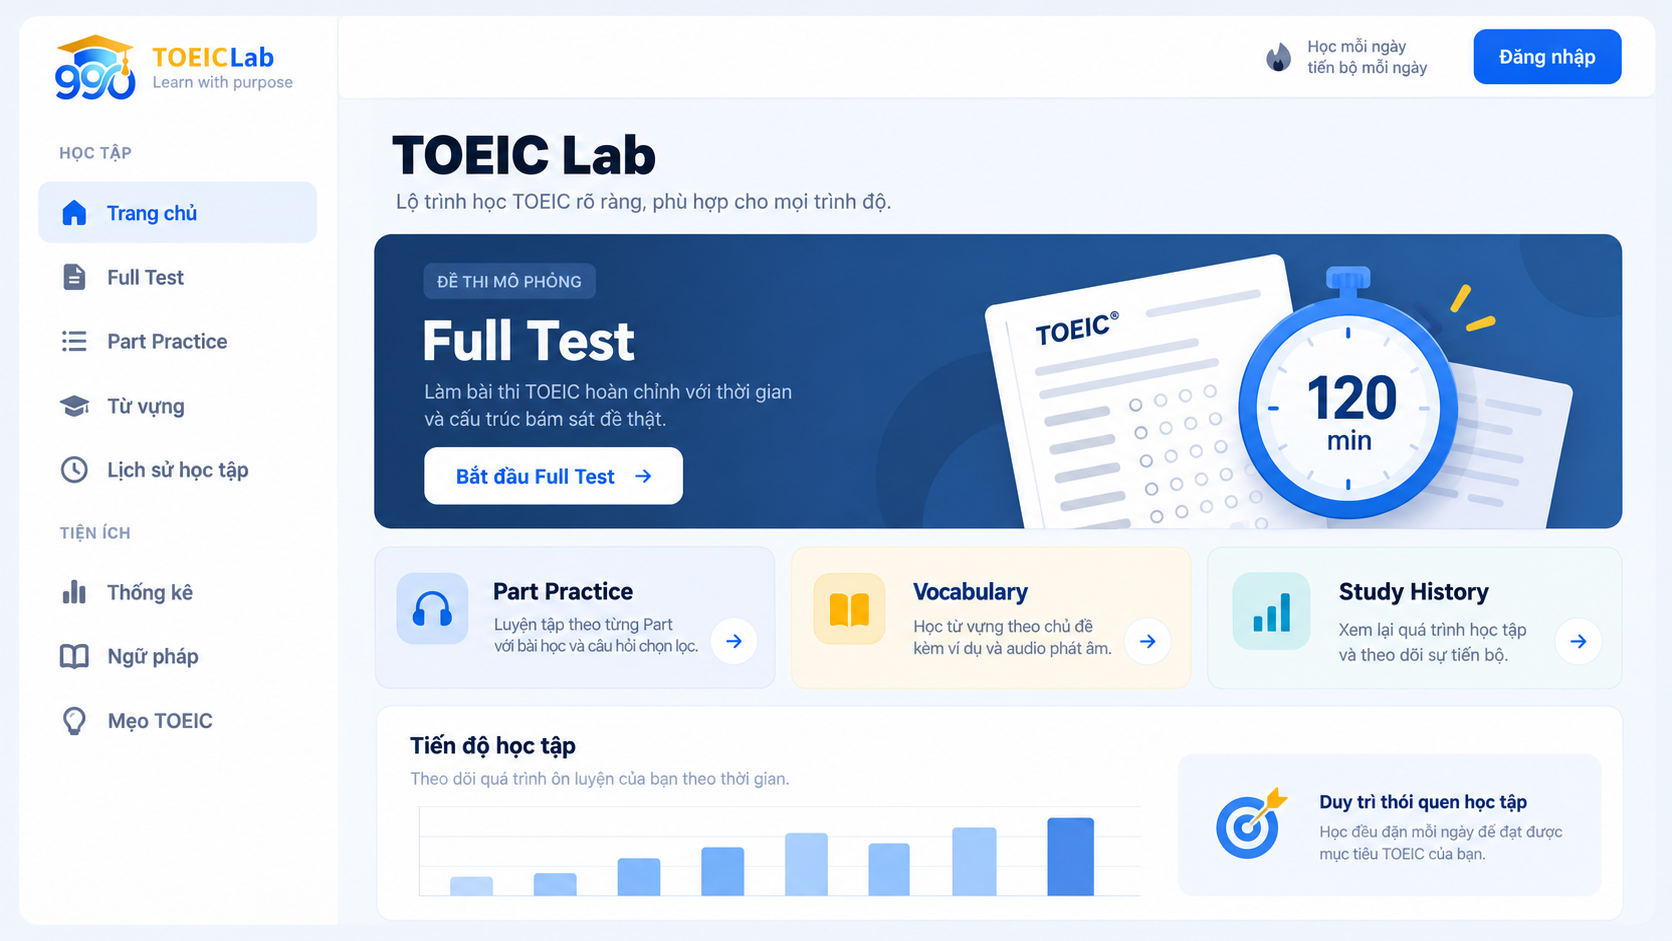
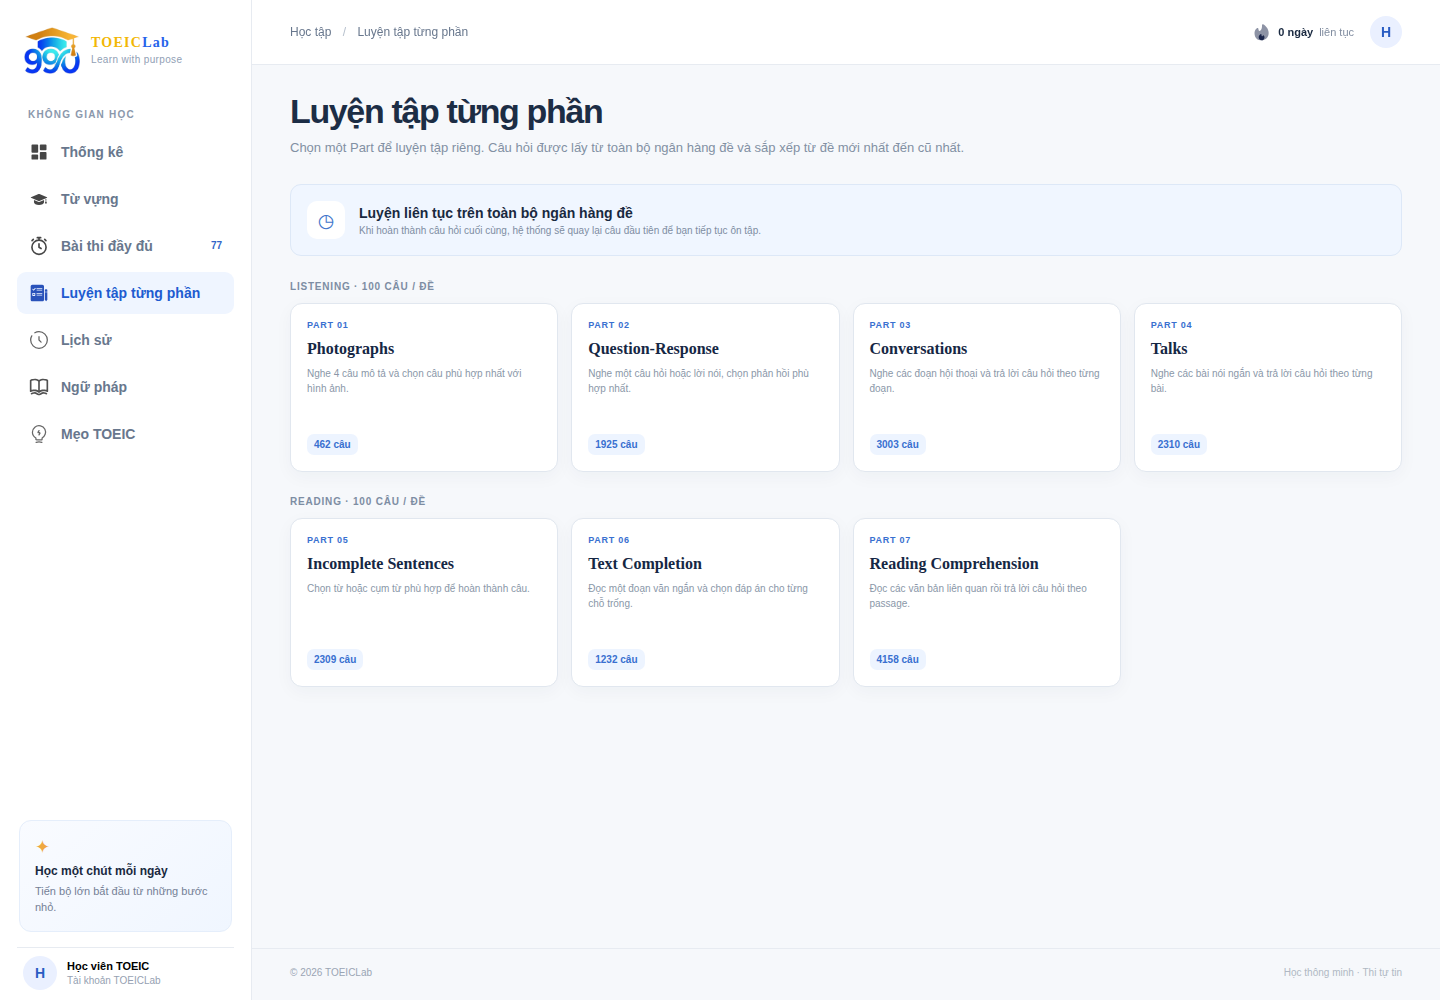
Update TOEIC Lab portfolio details and link

diff --git a/index.html b/index.html
@@ -93,21 +93,23 @@
           <div class="project-grid">
             <article class="project-card project-card-featured">
               <div class="project-visual">
-                <img src="assets/images/toeic-lab-preview.png" width="1672" height="941" loading="lazy" alt="Illustrative TOEIC Lab learning dashboard concept with a timed test, practice, vocabulary, and study history panels">
-                <span class="visual-note">Illustrative interface</span>
+                <img src="assets/images/toeic-lab-preview.png" width="1440" height="1000" loading="lazy" alt="TOEIC Lab Part Practice page listing all seven TOEIC parts for untimed practice">
               </div>
               <div class="project-body">
                 <div class="project-overline"><span>01 / Education</span><span>Full-stack product</span></div>
                 <div class="project-title-row">
                   <h3>TOEIC Lab</h3>
-                  <a class="icon-link" href="https://github.com/trandiepp2105/toeiclab" target="_blank" rel="noreferrer" aria-label="View TOEIC Lab source on GitHub"><span aria-hidden="true">↗</span></a>
+                  <div class="project-title-actions">
+                    <a class="project-app-link" href="https://toeiclab.io.vn" target="_blank" rel="noreferrer">Open app <span aria-hidden="true">↗</span></a>
+                    <a class="icon-link" href="https://github.com/trandiepp2105/toeiclab" target="_blank" rel="noreferrer" aria-label="View TOEIC Lab source on GitHub"><span aria-hidden="true">↗</span></a>
+                  </div>
                 </div>
-                <p class="project-summary">A modular TOEIC learning platform for full-length exams, focused practice, vocabulary study, and progress review.</p>
+                <p class="project-summary">An online TOEIC study app for topic-based vocabulary, practice across all seven parts, full-length mock exams, and progress review.</p>
                 <p class="project-contribution"><strong>Contribution</strong> Built a modular TOEIC learning platform as a monolith with React/SCSS, Django REST Framework, MySQL, Redis, and Nginx.</p>
                 <ul class="project-highlights">
-                  <li>120-minute full tests with review flows</li>
-                  <li>Part practice and bilingual vocabulary quizzes</li>
-                  <li>Learning history and progress tracking</li>
+                  <li>600 topic-based words with IPA, examples, and pronunciation audio</li>
+                  <li>Untimed practice, bilingual vocabulary quizzes, and 120-minute mock exams</li>
+                  <li>Answer review, per-Part scores, study history, and progress statistics</li>
                 </ul>
                 <div class="tag-list" aria-label="Technologies used">
                   <span>React</span><span>SCSS</span><span>Django REST</span><span>MySQL</span><span>Redis</span><span>Nginx</span>
@@ -117,7 +119,7 @@
 
             <article class="project-card">
               <div class="project-visual">
-                <img src="assets/images/viberchill-preview.png" width="1567" height="702" loading="lazy" alt="ViberFilm streaming interface showing a movie detail page and HLS playback controls">
+                <img src="assets/images/viberchill-preview.png" width="1567" height="702" loading="lazy" alt="Movie detail page in the ViberChill streaming app, shown with its ViberFilm branding and HLS playback controls">
               </div>
               <div class="project-body">
                 <div class="project-overline"><span>02 / Streaming</span><span>2026</span></div>

diff --git a/assets/css/styles.css b/assets/css/styles.css
@@ -486,6 +486,10 @@ a.intro-detail:hover {
   aspect-ratio: auto;
 }
 
+.project-card-featured .project-visual img {
+  object-fit: contain;
+}
+
 .project-visual img {
   width: 100%;
   height: 100%;
@@ -543,6 +547,25 @@ a.intro-detail:hover {
   font-weight: 800;
   letter-spacing: -0.07em;
   line-height: 1.15;
+}
+
+.project-title-actions {
+  display: flex;
+  align-items: center;
+  gap: 10px;
+}
+
+.project-app-link {
+  color: var(--color-accent-dark);
+  font-size: 12px;
+  font-weight: 800;
+  white-space: nowrap;
+}
+
+.project-app-link:hover {
+  color: var(--color-accent);
+  text-decoration: underline;
+  text-underline-offset: 3px;
 }
 
 .icon-link {
